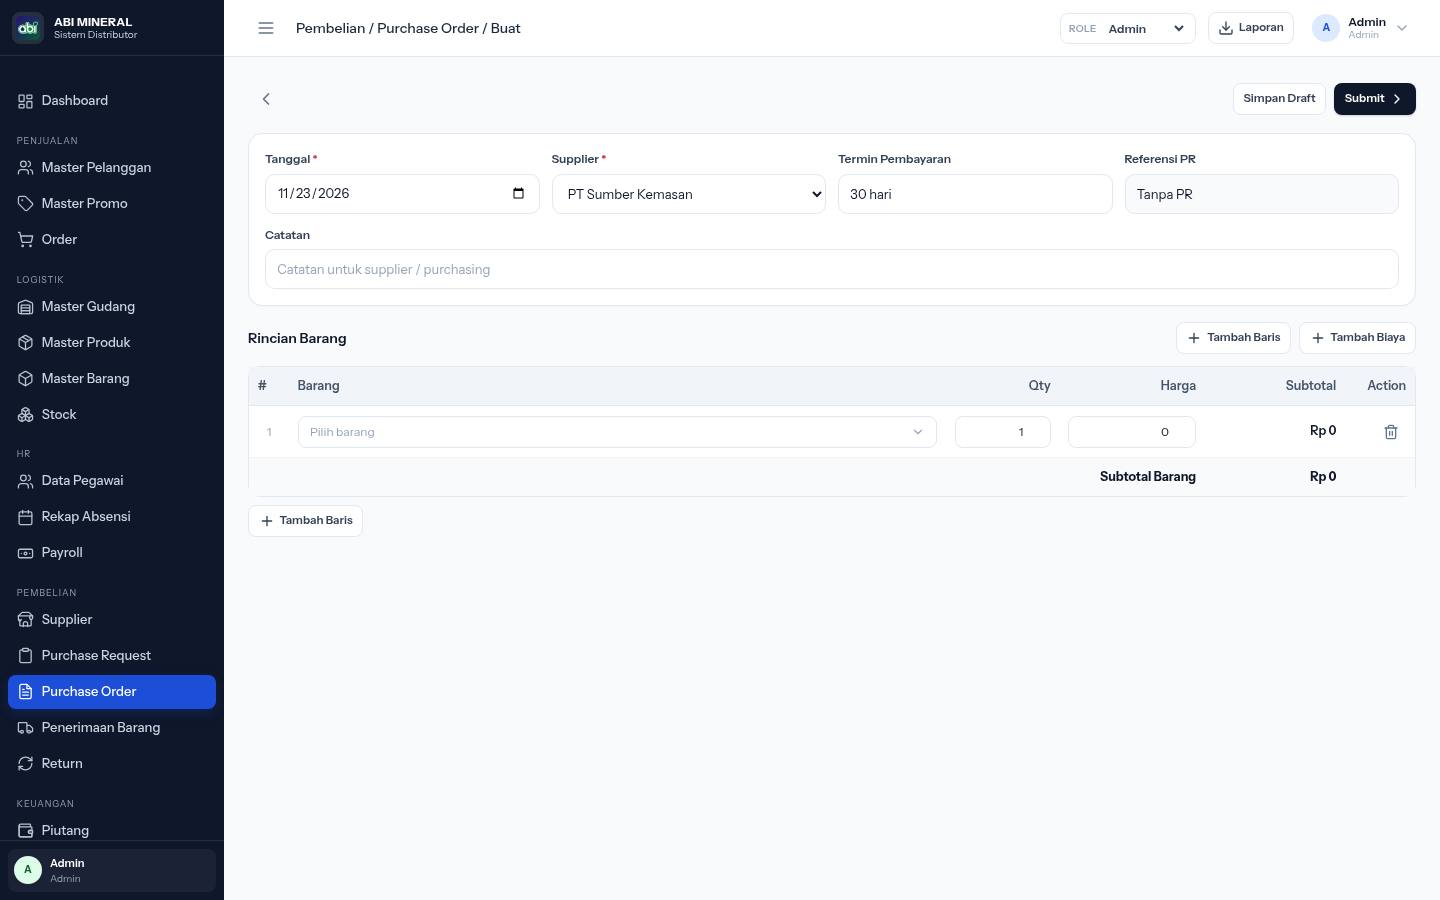
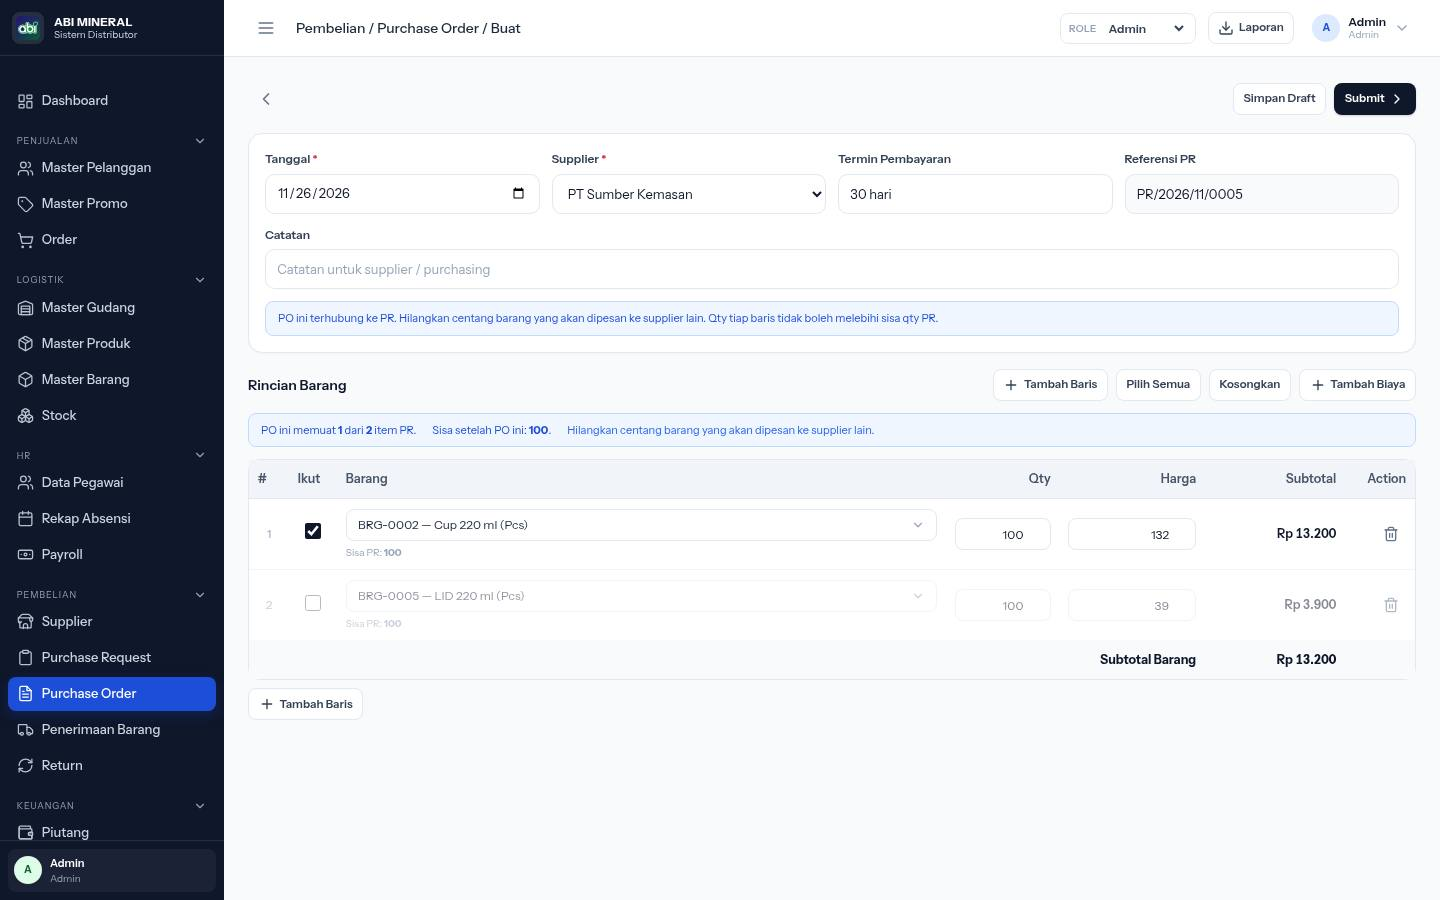
feat: allow splitting a purchase request into multiple POs

diff --git a/index.html b/index.html
@@ -1922,7 +1922,7 @@
                   <td x-text="i + 1"></td><td class="font-semibold" x-text="pr.code"></td><td x-text="dateShort(pr.date)"></td>
                   <td><span class="flex items-center gap-2"><span class="avatar" x-text="initials(pr.requester)"></span><span x-text="pr.requester"></span></span></td>
                   <td class="max-w-[260px] whitespace-normal" x-text="pr.purpose"></td>
-                  <td><div class="flex flex-wrap gap-1"><template x-for="po in purchaseRequestPOs(pr)" :key="po.id"><button class="badge badge-blue" @click="viewPO(po)" x-text="po.code"></button></template><span x-show="purchaseRequestPOs(pr).length === 0" class="text-slate-400">-</span></div></td>
+                  <td><div class="flex flex-wrap gap-1"><template x-for="po in purchaseRequestPOs(pr)" :key="po.id"><button class="badge badge-blue" @click="viewPO(po)" :title="supplierName(po.supplierId)" x-text="po.code"></button></template><span x-show="purchaseRequestPOs(pr).length === 0" class="text-slate-400">-</span></div></td>
                   <td class="num" x-text="(pr.items || []).length"></td><td class="num" x-text="fmt((pr.items || []).reduce((s, item) => s + Number(item.qty || 0), 0))"></td>
                   <td><span class="badge" :class="prStatusBadge(pr.status)" x-text="prStatusLabel(pr.status)"></span></td>
                   <td class="actions">
@@ -2196,23 +2196,33 @@
             <div><label class="label">Referensi PR</label><input class="input bg-slate-50" :value="poForm.prId ? (purchaseRequests.find(pr => pr.id === poForm.prId) || {}).code || '-' : 'Tanpa PR'" readonly></div>
           </div>
           <div class="mt-3"><label class="label">Catatan</label><input class="input" x-model="poForm.notes" placeholder="Catatan untuk supplier / purchasing"></div>
-          <div x-show="poForm.prId" class="mt-3 rounded-lg border border-blue-200 bg-blue-50 px-3 py-2 text-[11px] text-blue-700">PO ini terhubung ke PR. Qty tiap baris tidak boleh melebihi sisa qty PR.</div>
+          <div x-show="poForm.prId" class="mt-3 rounded-lg border border-blue-200 bg-blue-50 px-3 py-2 text-[11px] text-blue-700">PO ini terhubung ke PR. Hilangkan centang barang yang akan dipesan ke supplier lain. Qty tiap baris tidak boleh melebihi sisa qty PR.</div>
         </div>
 
         <div class="flex flex-wrap items-center justify-between gap-2 mb-3">
           <div class="text-sm font-semibold">Rincian Barang</div>
           <div class="flex flex-wrap items-center gap-2">
             <button class="btn btn-outline btn-sm" @click="addPOLine()"><svg class="icon icon-sm"><use href="#i-plus"></use></svg> Tambah Baris</button>
+            <button x-show="poForm.prId" class="btn btn-outline btn-sm" @click="setAllPOItems(true)">Pilih Semua</button>
+            <button x-show="poForm.prId" class="btn btn-outline btn-sm" @click="setAllPOItems(false)">Kosongkan</button>
             <button class="btn btn-outline btn-sm" @click="addPOAdditionalCost()"><svg class="icon icon-sm"><use href="#i-plus"></use></svg> Tambah Biaya</button>
+          </div>
+        </div>
+        <div x-show="poForm.prId" class="mb-3 rounded-lg border border-blue-200 bg-blue-50 px-3 py-2 text-[11px] text-blue-700">
+          <div class="flex flex-wrap items-center gap-x-4 gap-y-1">
+            <span>PO ini memuat <b x-text="poPrSummary ? poPrSummary.includedCount : 0"></b> dari <b x-text="poPrSummary ? poPrSummary.totalCount : 0"></b> item PR yang belum dialokasikan.</span>
+            <span>Sisa setelah PO ini: <b x-text="poPrSummary ? fmt(poPrSummary.afterQty) : 0"></b> qty.</span>
+            <span class="text-blue-600">Hilangkan centang barang yang akan dipesan ke supplier lain.</span>
           </div>
         </div>
         <div class="table-wrap" style="overflow: visible">
           <table class="data-table">
-            <thead><tr><th style="width:40px;min-width:40px;max-width:40px" class="text-center">#</th><th style="width:auto">Barang</th><th class="num" style="width:90px">Qty</th><th class="num" style="width:140px">Harga</th><th class="num" style="width:140px">Subtotal</th><th class="actions" style="width:70px">Action</th></tr></thead>
+            <thead><tr><th style="width:40px;min-width:40px;max-width:40px" class="text-center">#</th><th x-show="poForm.prId" style="width:48px;min-width:48px" class="text-center">Ikut</th><th style="width:auto">Barang</th><th class="num" style="width:90px">Qty</th><th class="num" style="width:140px">Harga</th><th class="num" style="width:140px">Subtotal</th><th class="actions" style="width:70px">Action</th></tr></thead>
             <tbody>
               <template x-for="(item, index) in poForm.items" :key="index">
-                <tr>
+                <tr :class="poForm.prId && item.include === false ? 'opacity-50' : ''">
                   <td class="text-center text-xs text-slate-400" x-text="index + 1"></td>
+                  <td x-show="poForm.prId" class="text-center"><input type="checkbox" class="checkbox" x-model="item.include"></td>
                   <td>
                     <div class="relative" @click.outside="item.materialOpen = false">
                       <button type="button" class="input input-sm w-full flex items-center justify-between gap-2 text-left" :class="item.materialId ? 'text-slate-800' : 'text-slate-400'" @click="item.materialOpen = !item.materialOpen">
@@ -2234,15 +2244,15 @@
                     </div>
                     <div x-show="poForm.prId && poMaterialMaxQty(index) !== null" class="text-[10px] text-slate-400 mt-1">Sisa PR: <b x-text="fmt(poMaterialMaxQty(index) || 0)"></b></div>
                   </td>
-                  <td class="num"><input type="number" min="1" class="input input-sm w-24 text-right" :max="poMaterialMaxQty(index) !== null ? poMaterialMaxQty(index) : null" x-model.number="item.qty"></td>
-                  <td class="num"><input type="number" min="0" class="input input-sm w-32 text-right" x-model.number="item.price"></td>
+                  <td class="num"><input type="number" min="1" class="input input-sm w-24 text-right" :max="poMaterialMaxQty(index) !== null ? poMaterialMaxQty(index) : null" :disabled="poForm.prId && item.include === false" x-model.number="item.qty"></td>
+                  <td class="num"><input type="number" min="0" class="input input-sm w-32 text-right" :disabled="poForm.prId && item.include === false" x-model.number="item.price"></td>
                   <td class="num font-semibold" x-text="rp(poLineSubtotal(item))"></td>
                   <td class="actions"><button class="icon-btn icon-btn-sm icon-btn-danger" @click="removePOLine(index)" title="Hapus baris"><svg class="icon icon-sm"><use href="#i-trash"></use></svg></button></td>
                 </tr>
               </template>
-              <tr x-show="poForm.items.length === 0"><td colspan="6"><div class="empty"><svg class="icon icon-lg text-slate-300"><use href="#i-folder-search"></use></svg><div class="font-semibold mt-2">Belum ada barang</div></div></td></tr>
+              <tr x-show="poForm.items.length === 0"><td :colspan="poForm.prId ? 7 : 6"><div class="empty"><svg class="icon icon-lg text-slate-300"><use href="#i-folder-search"></use></svg><div class="font-semibold mt-2">Belum ada barang</div></div></td></tr>
               <tr class="bg-slate-50 font-bold">
-                <td colspan="4" class="text-right">Subtotal Barang</td>
+                <td :colspan="poForm.prId ? 5 : 4" class="text-right">Subtotal Barang</td>
                 <td class="num" x-text="rp(poSubtotal)"></td>
                 <td></td>
               </tr>
@@ -4894,15 +4904,22 @@
         </div>
         <div class="flex flex-wrap items-center gap-2 text-xs">
           <span class="text-slate-400">PO Terkait:</span>
-          <template x-for="po in purchaseRequestPOs(selectedPR)" :key="po.id"><button class="badge" :class="poStatusBadge(po.status)" @click="viewPO(po); prDetailOpen = false" x-text="po.code"></button></template>
           <span x-show="purchaseRequestPOs(selectedPR).length === 0" class="text-slate-400">Belum ada PO</span>
+          <div x-show="purchaseRequestPOs(selectedPR).length > 0" class="flex flex-wrap gap-1.5">
+            <template x-for="po in purchaseRequestPOs(selectedPR)" :key="po.id">
+              <div class="inline-flex items-center gap-1.5 rounded-lg border border-slate-200 bg-white px-1.5 py-1">
+                <button class="badge" :class="poStatusBadge(po.status)" @click="viewPO(po); prDetailOpen = false" x-text="po.code"></button>
+                <span class="text-[10px] text-slate-500" x-text="supplierName(po.supplierId)"></span>
+              </div>
+            </template>
+          </div>
         </div>
         <div class="table-wrap">
           <table class="data-table">
-            <thead><tr><th>#</th><th>Kode</th><th>Barang</th><th class="num">Qty</th><th class="num">Sudah Dipesan</th><th class="num">Sisa</th><th>Catatan</th></tr></thead>
+            <thead><tr><th>#</th><th>Kode</th><th>Barang</th><th class="num">Qty</th><th class="num" title="Termasuk PO draft dan menunggu persetujuan">Sudah Dialokasikan</th><th class="num">Sisa</th><th>Catatan</th></tr></thead>
             <tbody>
               <template x-for="(item, index) in (selectedPR.items || [])" :key="index">
-                <tr><td x-text="index + 1"></td><td class="font-semibold" x-text="(materials.find(m => m.id === item.materialId) || {}).code || '-'"></td><td x-text="materialName(item.materialId)"></td><td class="num" x-text="fmt(item.qty)"></td><td class="num text-slate-500" x-text="fmt(item.orderedQty || 0)"></td><td class="num font-semibold" x-text="fmt(Math.max(0, item.qty - (item.orderedQty || 0)))"></td><td class="text-slate-500" x-text="item.note || '-'"></td></tr>
+                <tr><td x-text="index + 1"></td><td class="font-semibold" x-text="(materials.find(m => m.id === item.materialId) || {}).code || '-'"></td><td x-text="materialName(item.materialId)"></td><td class="num" x-text="fmt(item.qty)"></td><td class="num text-slate-500" x-text="fmt(prItemAllocatedQty(selectedPR, item.materialId))"></td><td class="num font-semibold" x-text="fmt(prItemRemainingQty(selectedPR, item.materialId))"></td><td class="text-slate-500" x-text="item.note || '-'"></td></tr>
               </template>
             </tbody>
           </table>
@@ -4931,7 +4948,8 @@
         </div>
         <div class="modal-actions modal-actions-right">
           <button class="btn btn-outline" @click="startPRPreview(selectedPR)"><svg class="icon icon-sm"><use href="#i-printer"></use></svg> Preview A4</button>
-          <button x-show="['approved','processing'].includes(selectedPR.status)" class="btn btn-primary" @click="openPOCreate(selectedPR); prDetailOpen = false">Buat PO</button>
+          <button x-show="['approved','processing'].includes(selectedPR.status) && prHasRemaining(selectedPR)" class="btn btn-primary" @click="openPOCreate(selectedPR); prDetailOpen = false" x-text="purchaseRequestPOs(selectedPR).length ? 'Buat PO Lagi' : 'Buat PO'"></button>
+          <span x-show="['approved','processing'].includes(selectedPR.status) && !prHasRemaining(selectedPR)" class="text-[11px] text-slate-500">Semua qty sudah dialokasikan ke PO.</span>
           <button x-show="selectedPR.status === 'draft'" class="btn btn-outline" @click="startPREdit(selectedPR); prDetailOpen = false">Edit Draft</button>
           <button x-show="selectedPR.status === 'draft'" class="btn btn-primary" @click="submitPR(selectedPR)">Submit</button>
           <button x-show="canApprovePR && selectedPR.status === 'submitted' && selectedPR.requesterId !== currentUserId" class="btn btn-danger" @click="openRejectPR(selectedPR)">Tolak</button>
@@ -5524,7 +5542,7 @@
 <input type="file" id="import-file" accept="application/json,.json" class="hidden" @change="handleImport($event)">
 
 <script src="assets/vendor/xlsx.full.min.js"></script>
-<script src="assets/app.js?v=20261126c"></script>
+<script src="assets/app.js?v=20261126e"></script>
 <script defer src="assets/vendor/alpine.min.js"></script>
 </body>
 </html>

diff --git a/assets/app.js b/assets/app.js
@@ -2035,7 +2035,30 @@ function app() {
           }
           break;
         }
-        case 'purchase-order-create': this.openPOCreate(); break;
+        case 'purchase-order-create': {
+          let pr = this.purchaseRequests.find(item => ['approved','processing'].includes(item.status) && this.prHasRemaining(item));
+          if (!pr) {
+            const now = todayISO();
+            pr = {
+              id:'prcanvas',
+              code:this.nextCode('PR', this.purchaseRequests),
+              date:now,
+              requester:this.currentUser,
+              requesterId:this.currentUserId,
+              purpose:'Pengadaan bahan kemasan',
+              status:'approved',
+              items:[
+                { materialId:'mat2', qty:100, orderedQty:0, note:'' },
+                { materialId:'mat5', qty:100, orderedQty:0, note:'' }
+              ],
+              history:[]
+            };
+            this.purchaseRequests.unshift(pr);
+          }
+          this.openPOCreate(pr);
+          if (this.poForm.items[1]) this.poForm.items[1].include = false;
+          break;
+        }
         case 'purchase-order-preview': {
           const row = first(this.purchaseOrders);
           if (row) { this.selectedPOId = row.id; this.page = 'purchase-order-preview'; }
@@ -2500,7 +2523,8 @@ function app() {
         case 'purchase-requests': return [
           { label:'Lihat Detail', icon:'i-eye', run:() => this.viewPR(row) },
           { label:'Preview A4', icon:'i-printer', run:() => this.startPRPreview(row) },
-          { label:'Buat PO', icon:'i-file', show:['approved','processing'].includes(row.status), run:() => this.openPOCreate(row) },
+          { label:this.purchaseRequestPOs(row).length ? 'Buat PO Lagi' : 'Buat PO', icon:'i-file', show:['approved','processing'].includes(row.status) && this.prHasRemaining(row), run:() => this.openPOCreate(row) },
+          { label:'Semua item sudah dialokasikan', icon:'i-check', disabled:true, show:['approved','processing'].includes(row.status) && !this.prHasRemaining(row) },
           { label:'Edit Draft', icon:'i-pencil', show:row.status === 'draft', run:() => this.startPREdit(row) },
           { label:'Submit', icon:'i-send', show:row.status === 'draft', run:() => this.submitPR(row) },
           { label:'Setujui', icon:'i-check', show:this.canApprovePR && row.status === 'submitted' && row.requesterId !== this.currentUserId, run:() => this.approvePR(row) },
@@ -4386,10 +4410,32 @@ function app() {
     },
     get canApprovePO() { return this.role === 'Manager'; },
     get poSubtotal() {
-      return (this.poForm.items || []).reduce((sum, item) => sum + (Number(item.qty) || 0) * (Number(item.price) || 0), 0);
+      return (this.poForm.items || [])
+        .filter(item => item.include !== false)
+        .reduce((sum, item) => sum + (Number(item.qty) || 0) * (Number(item.price) || 0), 0);
     },
     get poFormQty() {
-      return (this.poForm.items || []).reduce((sum, item) => sum + (Number(item.qty) || 0), 0);
+      return (this.poForm.items || [])
+        .filter(item => item.include !== false)
+        .reduce((sum, item) => sum + (Number(item.qty) || 0), 0);
+    },
+    get poPrSummary() {
+      const pr = this.poSourcePR;
+      if (!pr) return null;
+      const remainingRows = (pr.items || []).filter(item => this.prItemRemainingQty(pr, item.materialId, this.poEditId) > 0);
+      const included = (this.poForm.items || []).filter(item => item.include !== false && item.materialId);
+      const includedQty = included.reduce((sum, item) => sum + (Number(item.qty) || 0), 0);
+      const remainingQty = remainingRows.reduce((sum, item) => sum + this.prItemRemainingQty(pr, item.materialId, this.poEditId), 0);
+      return {
+        totalCount: remainingRows.length,
+        includedCount: included.length,
+        includedQty,
+        remainingQty,
+        afterQty: Math.max(0, remainingQty - includedQty)
+      };
+    },
+    setAllPOItems(include) {
+      (this.poForm.items || []).forEach(item => { item.include = !!include; });
     },
     get activeSuppliers() { return this.suppliers.filter(supplier => supplier.status); },
     supplierName(id) { return (this.suppliers.find(s => s.id === id) || {}).name || '-'; },
@@ -4422,7 +4468,7 @@ function app() {
       const query = String(item.materialSearch || '').toLowerCase();
       const source = this.poSourcePR;
       const allowed = source
-        ? (source.items || []).filter(prItem => Number(prItem.qty) - Number(prItem.orderedQty || 0) > 0).map(prItem => prItem.materialId)
+        ? (source.items || []).filter(prItem => this.prItemRemainingQty(source, prItem.materialId, this.poEditId) > 0).map(prItem => prItem.materialId)
         : null;
       return this.activeMaterials.filter(material => {
         if (allowed && !allowed.includes(material.id)) return false;
@@ -4437,7 +4483,7 @@ function app() {
       if (!source || !item.materialId) return null;
       const prItem = (source.items || []).find(row => row.materialId === item.materialId);
       if (!prItem) return 0;
-      return Math.max(0, Number(prItem.qty) - Number(prItem.orderedQty || 0));
+      return this.prItemRemainingQty(source, item.materialId, this.poEditId);
     },
     selectPOMaterial(index, material) {
       const item = this.poForm.items[index];
@@ -4448,7 +4494,7 @@ function app() {
       item.materialSearch = '';
     },
     addPOLine() {
-      this.poForm.items.push({ materialId:'', qty:1, price:0, materialOpen:false, materialSearch:'' });
+      this.poForm.items.push({ materialId:'', qty:1, price:0, include:true, materialOpen:false, materialSearch:'' });
     },
     removePOLine(index) {
       this.poForm.items.splice(index, 1);
@@ -4465,15 +4511,17 @@ function app() {
           return;
         }
         const items = (pr.items || [])
-          .filter(item => Number(item.qty) - Number(item.orderedQty || 0) > 0)
-          .map(item => ({
-            materialId:item.materialId,
-            qty:Number(item.qty) - Number(item.orderedQty || 0),
-            price:this.materialBuyPrice(item.materialId),
+          .map(item => ({ item, remaining:this.prItemRemainingQty(pr, item.materialId) }))
+          .filter(row => row.remaining > 0)
+          .map(row => ({
+            materialId:row.item.materialId,
+            qty:row.remaining,
+            price:this.materialBuyPrice(row.item.materialId),
+            include:true,
             materialOpen:false,
             materialSearch:''
           }));
-        if (!items.length) { this.notify('Semua qty PR sudah dipesan', 'error'); return; }
+        if (!items.length) { this.notify('Semua qty PR sudah dialokasikan ke PO', 'error'); return; }
         const supplier = this.activeSuppliers[0];
         this.poEditId = null;
         this.poForm = {
@@ -4494,7 +4542,7 @@ function app() {
           prId:'',
           paymentTerms:supplier ? supplier.paymentTerms : '',
           notes:'',
-          items:[{ materialId:'', qty:1, price:0, materialOpen:false, materialSearch:'' }],
+          items:[{ materialId:'', qty:1, price:0, include:true, materialOpen:false, materialSearch:'' }],
           additionalCosts:[]
         };
       }
@@ -4513,6 +4561,7 @@ function app() {
           materialId:item.materialId,
           qty:item.qty,
           price:item.price,
+          include:true,
           materialOpen:false,
           materialSearch:''
         })),
@@ -4523,7 +4572,7 @@ function app() {
     poValidationError(items) {
       if (!this.poForm.supplierId) return 'Supplier wajib dipilih';
       const rows = (items || []).filter(item => item.materialId && Number(item.qty) > 0);
-      if (!rows.length) return 'Tambahkan minimal 1 barang dengan qty lebih dari 0';
+      if (!rows.length) return this.poForm.prId ? 'Pilih minimal 1 barang untuk PO ini' : 'Tambahkan minimal 1 barang dengan qty lebih dari 0';
       const duplicates = rows.map(item => item.materialId).filter((id, index, list) => list.indexOf(id) !== index);
       if (duplicates.length) return 'Barang yang sama tidak boleh dipilih dua kali';
       for (const item of rows) {
@@ -4537,7 +4586,7 @@ function app() {
         for (const item of rows) {
           const prItem = (pr.items || []).find(row => row.materialId === item.materialId);
           if (!prItem) return 'Barang tidak ada pada PR sumber';
-          if (Number(item.qty) > Number(prItem.qty) - Number(prItem.orderedQty || 0)) {
+          if (Number(item.qty) > this.prItemRemainingQty(pr, item.materialId, this.poEditId)) {
             return 'Qty ' + this.materialName(item.materialId) + ' melebihi sisa PR';
           }
         }
@@ -4552,7 +4601,7 @@ function app() {
     },
     savePO(submit = false, confirmed = false) {
       const items = (this.poForm.items || [])
-        .filter(item => item.materialId && Number(item.qty) > 0)
+        .filter(item => item.include !== false && item.materialId && Number(item.qty) > 0)
         .map(item => ({
           materialId:item.materialId,
           qty:Number(item.qty),
@@ -4714,7 +4763,7 @@ function app() {
       for (const poItem of (po.items || [])) {
         const prItem = (pr.items || []).find(item => item.materialId === poItem.materialId);
         if (!prItem) return 'Barang tidak ada pada PR sumber';
-        if (Number(poItem.qty) > Number(prItem.qty) - Number(prItem.orderedQty || 0)) {
+        if (Number(poItem.qty) > this.prItemRemainingQty(pr, poItem.materialId, po.id)) {
           return 'Qty ' + this.materialName(poItem.materialId) + ' melebihi sisa PR';
         }
       }
@@ -4782,6 +4831,28 @@ function app() {
     purchaseRequestPOs(pr) {
       if (!pr || !pr.id) return [];
       return this.purchaseOrders.filter(po => po.prId === pr.id && !['rejected','cancelled'].includes(po.status));
+    },
+    prItemAllocatedQty(pr, materialId, excludePoId = null) {
+      if (!pr || !pr.id || !materialId) return 0;
+      const prItem = (pr.items || []).find(item => item.materialId === materialId);
+      const approved = Number(prItem && prItem.orderedQty) || 0;
+      const draftPending = (this.purchaseOrders || [])
+        .filter(po => po.prId === pr.id
+          && po.id !== excludePoId
+          && ['draft','pending_approval'].includes(po.status))
+        .reduce((sum, po) => sum + (po.items || [])
+          .filter(item => item.materialId === materialId)
+          .reduce((rowSum, item) => rowSum + (Number(item.qty) || 0), 0), 0);
+      return approved + draftPending;
+    },
+    prItemRemainingQty(pr, materialId, excludePoId = null) {
+      if (!pr || !pr.id || !materialId) return 0;
+      const prItem = (pr.items || []).find(item => item.materialId === materialId);
+      if (!prItem) return 0;
+      return Math.max(0, (Number(prItem.qty) || 0) - this.prItemAllocatedQty(pr, materialId, excludePoId));
+    },
+    prHasRemaining(pr, excludePoId = null) {
+      return (pr && pr.items || []).some(item => this.prItemRemainingQty(pr, item.materialId, excludePoId) > 0);
     },
     poFullyReceived(po) {
       if (!po) return false;

diff --git a/app-docs.md b/app-docs.md
@@ -89,6 +89,7 @@ Purchase Request (L2):
 - PR menjadi `completed` ketika semua PO terkait sudah fully received/closed.
 - Jika seluruh PO terkait dibatalkan/ditolak, PR kembali ke `approved`.
 - Hanya memilih Master Barang, tidak bisa memilih produk jadi.
+- **Satu PR dapat menghasilkan beberapa PO**, karena item PR bisa berasal dari supplier berbeda. Setiap PO tetap hanya untuk satu supplier.
 - Tidak membuat jurnal, utang, atau perubahan stok.
 - Approve/reject hanya oleh role **Manager**.
 - Jika pembuat PR adalah Manager, Submit—termasuk langsung dari halaman Buat PR—langsung menjadi `approved` (auto approve) karena hanya ada satu Manager.
@@ -101,6 +102,10 @@ Purchase Order (L3):
 - Semua PO memerlukan approval Manager; Admin/Developer tidak approve.
 - Jika pembuat PO adalah Manager, Submit—termasuk langsung dari halaman Buat PO—langsung `approved` dan menjalankan reservasi qty PR (auto approve).
 - Harga awal diambil dari harga beli rata-rata Master Barang dan dapat diubah pada PO. PO tidak mengubah harga master.
+- Saat membuat PO dari PR, setiap baris memiliki centang **Ikut PO**. Hanya baris tercentang yang masuk ke PO.
+- Baris yang tidak dicentang tetap menjadi sisa PR dan bisa dipesan ke supplier lain melalui **Buat PO Lagi**.
+- Sisa qty PR memperhitungkan PO **draft**, **menunggu persetujuan**, dan **disetujui**, sehingga dua PO tidak bisa mengalokasikan qty melebihi PR.
+- PR detail menampilkan semua PO terkait beserta supplier dan statusnya.
 - **Biaya Tambahan** mendukung keterangan, nominal, dan qty; total PO = subtotal barang + biaya tambahan.
 - Saat penerimaan, biaya tambahan dialokasikan proporsional ke AP; jurnal mencatat beban tambahan dan utang supplier.
 - Saat approve, `orderedQty` PR bertambah dan status PR menjadi `processing`/`completed`.
